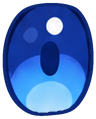
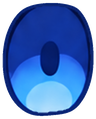
同步上游的虹膜高光更改

Changed region(s): [[0.4688, 0.1261, 0.6562, 0.3025], [0.25, 0.2269, 0.4062, 0.3529]]

diff --git a/figure.js b/figure.js
@@ -113,6 +113,8 @@ export async function createWhaleFigure(base = new URL('./', import.meta.url), o
       // an outfit's own part with a `src` is drawn in the outfit's colours
       ...partsOf(of).map(async p => { set.tex[p.tex] = await load(asset(p.src || `${dir}tex/${p.tex}.png`)); }),
       ...featNames.map(async n => { set.img[n] = await load(asset(`${dir}feat/${n}.png`)); }),
+      // a scheme with `eyeHighlights` has each eye's highlights as their own sprite and an iris without them
+      ...(schemeInfo(sc).eyeHighlights ? EYES.map(async k => { set.img[`${k}_hl`] = await load(asset(`${dir}feat/${k}_hl.png`)); }) : []),
     ]).then(() => (ready[key] = set));
     return loaded[key];
   }
@@ -219,6 +221,15 @@ export async function createWhaleFigure(base = new URL('./', import.meta.url), o
     return [k, { ...e, travel: h + 2, cx, cy: poly2(e.lidFit, cx) }];
   }));
 
+  // the eye highlights' state this frame (master pixels), stepped once per frame in draw()
+  const hl = { dx: 0, dy: 0, scale: 1, quiver: 0, alpha: 1 };
+  // how each face changes the highlights: welling eyes quiver and shine bigger, a glare narrows them, drowsy eyes dull
+  const HL_MOOD = {
+    sad: { scale: 1.12, quiver: 1 }, worried: { scale: 1.1, quiver: .8 }, shy: { scale: 1.1, quiver: .6 }, pout: { scale: 1.06, quiver: .4 },
+    excited: { scale: 1.18 }, listening: { scale: 1.06 }, angry: { scale: .78 }, determined: { scale: .86 },
+    sleepy: { scale: .92, alpha: .7 }, content: { alpha: .8 }, waking: { alpha: .75 },
+  };
+
   /**
    * The neutral eye with its lid at `open` (0 shut, 1 rest), iris moved by ix/iy, lid tilted by tilt (rad);
    * `glint` (0..1) adds star highlights on the iris, which twinkle with `t`.
@@ -233,6 +244,22 @@ export async function createWhaleFigure(base = new URL('./', import.meta.url), o
     g.drawImage(img[`${k}_ball`], bx0, by0);
     g.globalCompositeOperation = 'source-atop';
     g.drawImage(img[`${k}_iris`], e.iris[0] + ix, e.iris[1] + iy);
+    const d = (1 - clamp(open, 0, 1)) * e.travel, tn = Math.tan(tilt);
+    const hlImg = img[`${k}_hl`];
+    if (hlImg && e.hl) {
+      // the highlights ride on the iris, trail it on their spring, are pushed down by a closing lid as far as the
+      // iris's middle (so a half-shut eye still shines) and take the face's size, quiver and strength; the far
+      // eye's x is foreshortened
+      const gx = k === 'eyeL' ? 1 : .35, ph = k === 'eyeL' ? 0 : 1.7, q = hl.quiver;
+      const w = hlImg.width * hl.scale, h = hlImg.height * hl.scale;
+      const cx = (e.hl[0] + e.hl[2]) / 2 + ix + (hl.dx + q * .8 * Math.sin(t * 29 + ph)) * gx;
+      let cy = (e.hl[1] + e.hl[3]) / 2 + iy + hl.dy + q * .6 * Math.sin(t * 37 + ph);
+      const lid = poly2(e.lidFit, clamp(cx, bx0, bx1)) + d + tn * (cx - e.cx) + 2;
+      if (cy - h / 2 < lid) cy = Math.max(cy, Math.min(lid + h / 2, (e.iris[1] + e.iris[3]) / 2 + iy));
+      g.globalAlpha = hl.alpha;
+      g.drawImage(hlImg, cx - w / 2, cy - h / 2, w, h);
+      g.globalAlpha = 1;
+    }
     // the eye's outline over the iris, so a shifted iris tucks under it
     if (e.rim) { g.globalCompositeOperation = 'source-over'; g.drawImage(img[`${k}_rim`], e.rim[0], e.rim[1]); }
     if (glint > 0) {
@@ -249,7 +276,6 @@ export async function createWhaleFigure(base = new URL('./', import.meta.url), o
       });
     }
     // the lid hides everything above it
-    const d = (1 - clamp(open, 0, 1)) * e.travel, tn = Math.tan(tilt);
     g.globalCompositeOperation = 'destination-out';
     g.beginPath();
     g.moveTo(bx0 - 20, by0 - 20);
@@ -461,8 +487,10 @@ export async function createWhaleFigure(base = new URL('./', import.meta.url), o
     hair: spring(55, 7, 1.8), hairY: spring(50, 8, 1.2), bangs: spring(110, 10, 1.6),
     skirt: spring(100, 9, 1.6), skirtY: spring(90, 10, 1.1), tail: spring(40, 5, 32), fins: spring(90, 9, 30),
     ahoge: spring(140, 6, 38), head: spring(70, 10, 16), armN: spring(60, 9, 125), armF: spring(60, 9, 95),
+    hlX: spring(160, 9, 3), hlY: spring(160, 9, 3),
   };
   let lastT = null, prevTilt = 0, prevYaw = 0, prevLow = 0, headTilt = 0, fx = '';
+  let prevLook = null, prevShut = 0;
   // the angle each hanging piece's root was last turned to (see the pendulums)
   let rootWas = {};
   // the kit tips Coo's whole round body to listen, nod, doze or wobble; she keeps her feet on the floor and
@@ -826,6 +854,16 @@ export async function createWhaleFigure(base = new URL('./', import.meta.url), o
       st[k] = { a: a + idle * d.gain - root * Math.min(1, d.gain) };
     }
 
+    // the highlights lag a gaze shift or a turn of the face and spring back; an opening lid flicks them up
+    const look = [clamp(o.look[0], -6, 6), clamp(o.look[1], -5, 5)], was = prevLook || look; prevLook = look;
+    const shut = Math.max(o.blink || 0, o.eyeClose || 0), shutV = (shut - prevShut) / Math.max(dt, 1e-3); prevShut = shut;
+    hl.dx = sp.hlX.step(-(look[0] - was[0]) / Math.max(dt, 1e-3) * .03 - yawVel * .8, dt);
+    hl.dy = sp.hlY.step(-(look[1] - was[1]) / Math.max(dt, 1e-3) * .03 + shutV * .12, dt);
+    const mood = HL_MOOD[face] || {};
+    hl.scale = lerp(hl.scale, mood.scale ?? 1, ease(6, dt));
+    hl.quiver = lerp(hl.quiver, mood.quiver ?? 0, ease(4, dt));
+    hl.alpha = lerp(hl.alpha, mood.alpha ?? 1, ease(4, dt));
+
     paintFace(fc, face, o, t);
     rig.upload('faceFx', faceCv);
     st.mix = 0;
@@ -921,6 +959,7 @@ export async function createWhaleFigure(base = new URL('./', import.meta.url), o
       for (const k in sp) { sp[k].x = 0; sp[k].v = 0; }
       lastT = null; rootWas = {}; prevTilt = 0; prevYaw = 0; prevLow = 0; headTilt = 0; wTilt = 0; wLean = 0; finMood = 0; tailMood = 0; wagAmp = 0; sitK = 0; walkK = 0; runK = 0; wingPhase = 0; climbK = 0;
       swimK = 0; swimPhase = 0; swingK = 0;
+      prevLook = null; prevShut = 0; Object.assign(hl, { dx: 0, dy: 0, scale: 1, quiver: 0, alpha: 1 });
     },
     /** Loads every scheme's and outfit's textures, so later switches are immediate. */
     preload: () => Promise.all(SCHEMES.flatMap(sc => OUTFITS.map(of => loadScheme(sc.id, of.id)))),

diff --git a/README.md b/README.md
@@ -80,7 +80,7 @@ https://github.com/user-attachments/assets/02bd0c4f-3c94-430f-8670-762fda87d127
 
 - 包 id：`deepseek-whale-plus`
 - 名字：大肥鱼 Plus
-- 形象包的版本：1.1.7（= 上游 0.2.12 的形象包 + 本包自己的飞行/游泳/窗口/作息功能）
+- 形象包的版本：1.1.8（= 上游 0.2.15 的形象包 + 本包自己的飞行/游泳/窗口/作息功能）
 - 依赖：Coopanion 0.2.9 及以上的形象包接口（`manifest: 2`、`api: 2`，窗口矩形随 `needs: ["windows"]` 下发）
 
 ## 同步上游
@@ -92,7 +92,18 @@ https://github.com/user-attachments/assets/02bd0c4f-3c94-430f-8670-762fda87d127
 ，以及 `web/kit/` 的 `rig.js`），`figure.js` 因为带了功能补丁不能直接比，改成先看上游两个 tag 的
 `diff`，再把新出现的 hunk 手工贴进来。
 
-最近一次同步：**0.2.9 → 0.2.12**（2026-10-27），内容是 0.2.12 的「大肥鱼的裙影」（#388）——
+最近一次同步：**0.2.12 → 0.2.15**（2026-10-29），内容是 0.2.14 的「大肥鱼的眼睛高光会动」（#258）
+和 0.2.15 对它的修正（#504：虹膜形状与位置改回原样，只把高光从贴图里拿掉）。搬过来的东西：
+
+- 新增 `feat/eyeL_hl.png`、`feat/eyeR_hl.png`：两只眼的高光各成一张贴图；
+- 换掉 `feat/eyeL_iris.png`、`feat/eyeR_iris.png`（原版配色的虹膜，去掉烘在里面的高光）；
+- `model.json`：`feat.eyes.eyeL/eyeR` 各多一个 `hl` 框，`schemes[0]`（原版配色）多一个
+  `eyeHighlights: true` —— **只有原版配色开**，其他 7 套配色的眼睛与旧版一样；
+- `figure.js`：高光单独画（`paintOpenEye` 里那段），跟着视线与转头弹一下（`hlX`/`hlY` 弹簧）、
+  眨眼开合时被眼皮压住、并按表情变大小与抖动（`HL_MOOD`：难过/担心/害羞放大颤动，生气/认真缩小，
+  睡意/满足时变淡）。
+
+再往前一次：**0.2.9 → 0.2.12**（2026-10-27），内容是 0.2.12 的「大肥鱼的裙影」（#388）——
 被拎起或走动时，腿上不再有一条跟着腿走的暗带。搬过来的东西：
 
 - 新增部件 `skirt_shadow`（`tex/skirt_shadow.png`、`outfits/crew/skirt_shadow.png`），
@@ -153,8 +164,8 @@ https://github.com/user-attachments/assets/02bd0c4f-3c94-430f-8670-762fda87d127
   `web/kit/rig.js`，比老版本应用多一个 `multiply` 混合，裙影靠它）；
 - `figure.js` 补上了游泳 / 飞行 / 攀爬的姿态（`swimK`、`swimPhase`、`climbK`、`GROUP` 里的
   `swimming` / `flying`，手脚和尾巴的动作），不会竖直站着游 / 飞，抱着窗边也不是站姿；
-- 配色（8 套）、服装（3 套）、表情、动作、贴图都和原版一致；0.2.12 的裙影（`skirt_shadow` 部件）
-  也是原样搬过来的。
+- 配色（8 套）、服装（3 套）、表情、动作、贴图都和原版一致；上游 0.2.12 的裙影（`skirt_shadow` 部件）
+  和 0.2.14/0.2.15 的眼高光（`eye*_hl` 贴图 + `eyeHighlights`）也是原样搬过来的。
 
 ## 打盹与作息的修改
 
